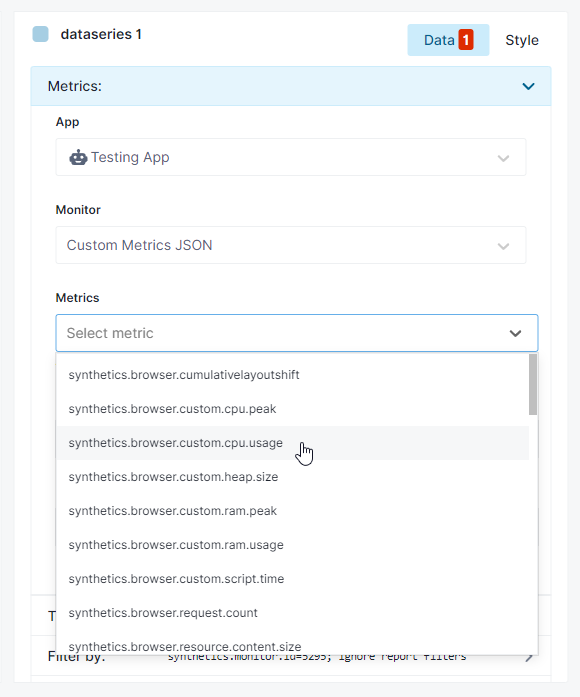
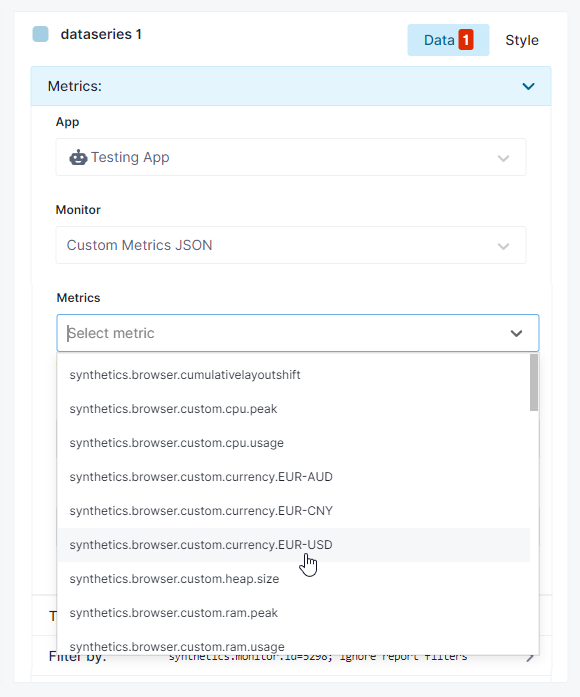
SC-12166 Change example from performance to finance

diff --git a/docs/synthetics/metrics.md b/docs/synthetics/metrics.md
@@ -79,7 +79,6 @@ async function testPage(page, context) {
   context.setMetric('heap.size', usedHeap);
   context.setMetric('script.time', scriptDuration);
 }
-
 module.exports = testPage;
 ```
 
@@ -101,39 +100,21 @@ After that, set the **Rollup by** field to **max** and set the alert condition t
 
 ___
 
-Here's an additional example of getting custom metrics from a response body JSON. Let's say some API returns information about current and peak values of CPU and RAM usage, and that we want to use those as custom metrics to chart and alert on. This example is likewise listed in the **Browse Examples** section found in the Browser monitor creation/editing flow.
+Here's an additional example of getting custom metrics from a response body JSON. Let's say some API returns information about currency exchange rates, and that you'd like to chart these exchange rates over time and perhaps set up alerts if they reach certain points. This example is likewise listed in the **Browse Examples** section found in the Browser monitor creation/editing flow.
 
 ```javascript
+// This script gets the exchange rates of various currencies and defines the results as custom metrics
 async function testPage(page, context) {
-
-  /* This is an example of a response the API generates
-    {
-        "cpuUsage": {
-            "average": 52,
-            "peak": 89
-        },
-        "ramUsage": {
-            "average": 31,
-            "peak": 56
-        }
-    }
-  */
-
-  const response = await page.goto("https://private-c82e7-stcloudtest.apiary-mock.com/getData");
+  const response = await page.goto("https://api.exchangerate.host/latest");
   bodyJSON = await response.json();
-
-  // Extract the values from the response JSON and define them as custom metrics
-  const avgCPU = bodyJSON.cpuUsage.average;
-  const peakCPU = bodyJSON.cpuUsage.peak;
-  const avgRAM = bodyJSON.ramUsage.average;
-  const peakRAM = bodyJSON.ramUsage.peak;
-  console.log(avgCPU, peakCPU, avgRAM, peakRAM);
-  context.setMetric('cpu.usage', avgCPU);
-  context.setMetric('cpu.peak', peakCPU);
-  context.setMetric('ram.usage', avgRAM);
-  context.setMetric('ram.peak', peakRAM);
+  
+  const USD = bodyJSON.rates.USD;
+  const AUD = bodyJSON.rates.AUD;
+  const CNY = bodyJSON.rates.CNY;
+  context.setMetric('currency.EUR-USD', USD);
+  context.setMetric('currency.EUR-AUD', AUD);
+  context.setMetric('currency.EUR-CNY', CNY);
 }
-
 module.exports = testPage;
 ```
 
